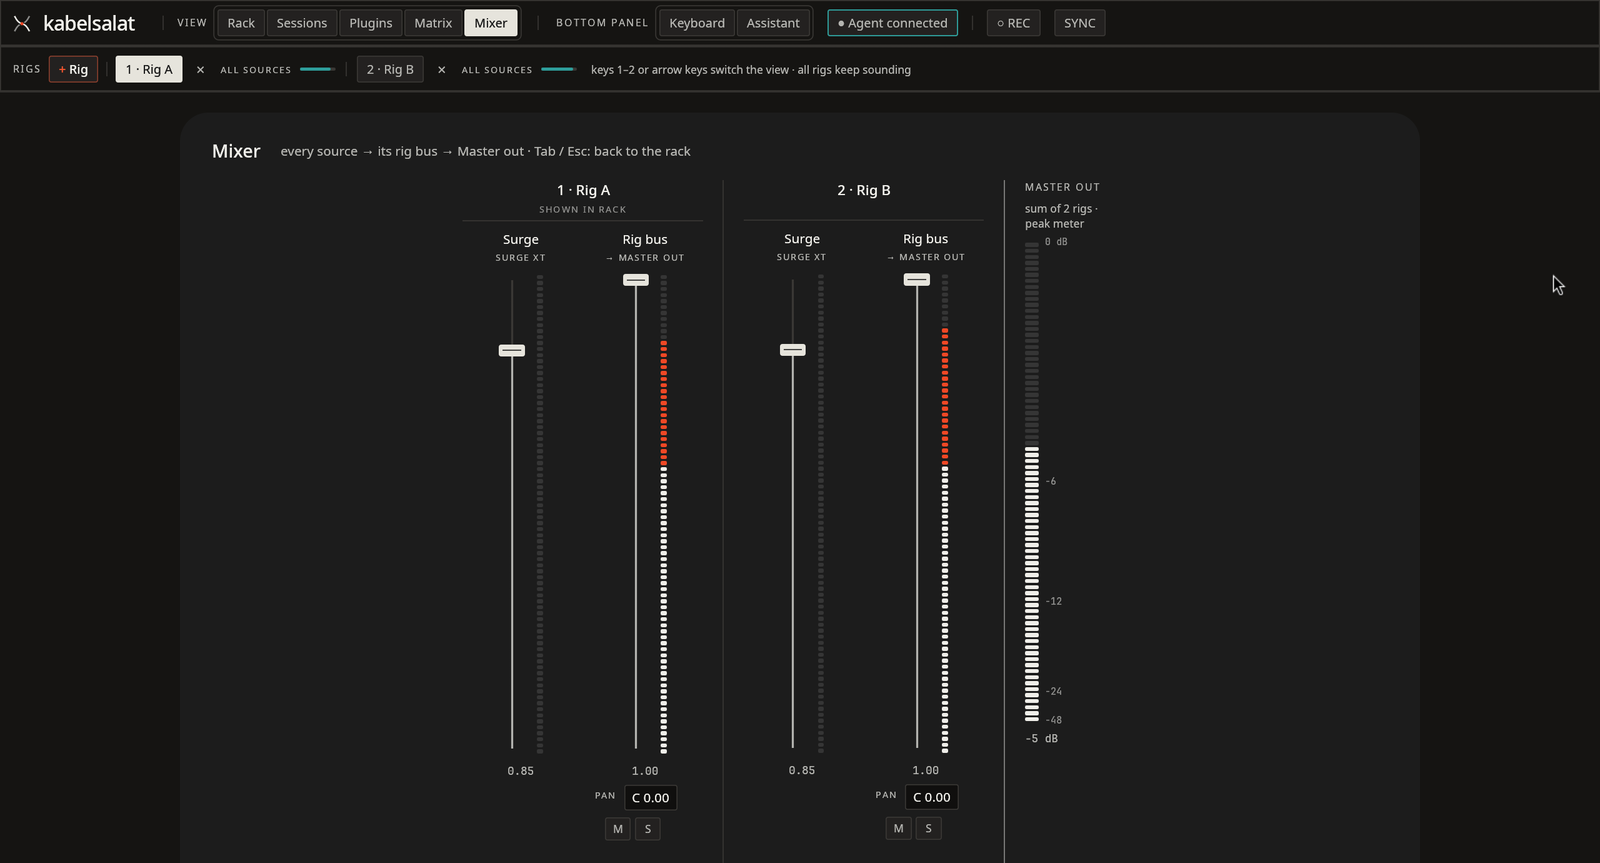
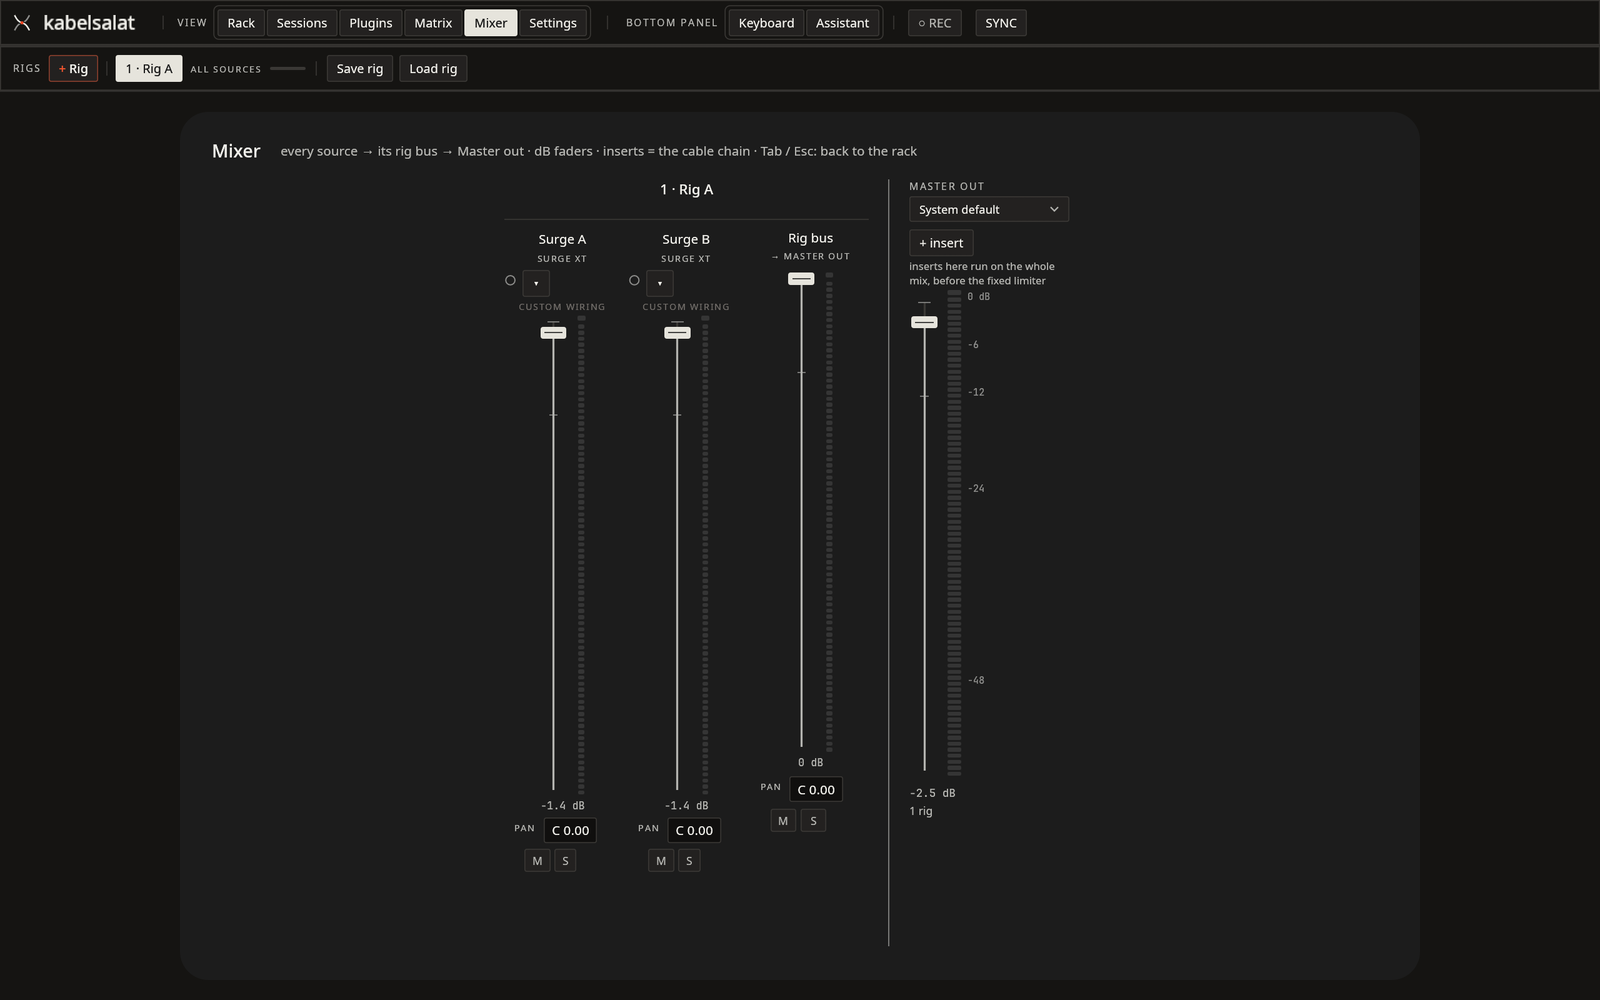
README: the mixer's channel strips, inserts and a fresh mixer shot (#72 #73 #74 #77)

diff --git a/README.md b/README.md
@@ -48,10 +48,14 @@ you are looking at with **1–9**. Any installed CLAP or LV2 instrument works
 it has loaded.
 
 ### Mix
-The mixer gives every rig volume, pan, mute and solo, with meters that show
-what you actually hear.
+Every source gets its own channel strip: a fader in dB with a 0 dB detent
+(double-click for exact unity), a held peak and a clip light, plus pan, mute
+and solo. Each strip lists the effects on its cable chain as insert slots —
+add, bypass, reorder or remove them — and the master has inserts that run on
+the whole mix before the limiter. Rename a strip, give it a colour, drag it to
+reorder or collapse it; names and colours are saved with the session.
 
-<p align="center"><img src="docs/shots/mixer.png" width="85%" alt="The mixer: per-rig faders, pan, mute and solo, and the master meter"/></p>
+<p align="center"><img src="docs/shots/mixer.png" width="85%" alt="The mixer: a channel strip per source with dB faders, pan, mute and solo, the rig bus, and the master with its inserts"/></p>
 
 ### Route MIDI anywhere
 The MIDI matrix decides which keyboard plays which rig. Each connection can be
